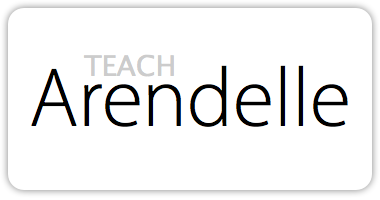
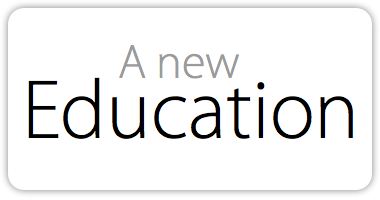
education page added

Changed region(s): [[0.0579, 0.21, 0.9263, 0.72]]

diff --git a/index.html b/index.html
@@ -3,6 +3,12 @@
 
     <head>
     <meta charset="UTF-8">
+
+    <!-- SEO -->
+    <meta name="keywords" content="Arendelle, Arendelle Language, Pouya Kary, Micha Hanselmann" />
+    <meta name="description" content="Homepage of Arendelle Language; A fun new langauge for you to discover the great world of programming!" />
+    <meta http-equiv="content-language" content="en" />
+
     <link href="http://gmpg.org/xfn/11" rel="profile">
   
     <!-- Enable responsiveness on mobile devices-->
@@ -27,26 +33,31 @@
     <script type="text/javascript">
       // Enables responsitive view for some of the floating tags
       function sizeFixer () {
-        // Fixes "It's The Easiest, Most Fun "
+        // Fixes "It's The Easiest, Most Fun"
         if ( document.getElementById("easy").offsetWidth < 720 ) {
           document.getElementById("easyText").style.width = "100%";
           document.getElementById("easyCodeBlock").style.width = "100%";
           document.getElementById("easyText").style.clear = "both";
           document.getElementById("easyCodeBlock").style.clear = "both";
-          document.getElementById("easyImg").style.width = "97%";
+          document.getElementById("easyImg").style.height = "90%";
           document.getElementById("easyDiv").innerHTML = "<br><br><br><br><br><br>";
-
         } else {
           document.getElementById("easyText").style.width = "55%";
           document.getElementById("easyCodeBlock").style.width = "41%";
           document.getElementById("easyText").style.clear = "none";
           document.getElementById("easyCodeBlock").style.clear = "none";
-          document.getElementById("easyImg").style.width = "90%";
-          document.getElementById("easyDiv").innerHTML = "<br><br><br><br><br><br><br><br><br><br><br><br><br><br><br>";
+          document.getElementById("easyImg").style.width = "92%";
+          document.getElementById("easyDiv").innerHTML = "<br><br><br><br><br><br><br><br><br><br><br><br><br><br><br><br><br>";
         }
 
-        if ( document.getElementById("body").offsetWidth < 800 ) {
-          document.getElementById("footerBox").style.width = "100%";
+        // Fixes Footer Buttons
+        if (document.getElementById("body").offsetWidth < 450 ) {
+          document.getElementById("footerBox").style.width = "90%";
+          document.getElementById("footerBox1").style.width = "100%";
+          document.getElementById("footerBox2").style.width = "50%";
+          document.getElementById("footerBox3").style.width = "50%";
+        } else if ( document.getElementById("body").offsetWidth < 800 ) {
+          document.getElementById("footerBox").style.width = "95%";
           document.getElementById("footerBox1").style.width = "50%";
           document.getElementById("footerBox2").style.width = "25%";
           document.getElementById("footerBox3").style.width = "25%";
@@ -82,9 +93,11 @@
 
       <!-- Download / Learn Buttons -->
       <div id="wrap" style="clear:both;">
+        <!-- Download Arendelle -->
         <div id="left_col">
             <a href="http://web.arendelle.org/download/" title="Download Arendelle"><img src="Graphics/downloadArendelle.png" style="width:97%;"></a>
         </div>
+        <!-- Learn Arendelle -->
         <div id="right_col">
             <a href="http://book.arendelle.org" title="Learn Arendelle"><img src="Graphics/learnArendelelButton.png" style="width:97%;"></a>
         </div>
@@ -108,9 +121,9 @@
       <img src="Graphics/easiest.png"><hr>
       <div style="clear:both;" id="easy"> 
         <div style="float:left; margin:2%;" id="easyText">
-          <p>Arendelle is designed to be a very simple language, Each of it’s commands are one character, It’s grammars are simple, short and to the point. In short with less than 4 lines of code you can create something this cool</p><br>
+          <p>Arendelle is designed to be a very simple language, Each of it’s commands are one character, It’s grammars are simple, short and to the point. In short with less than four lines of code you can create things like this</p><br>
 
-          <img src="Graphics/rand.png" width="90%" id="easyImg"><br>
+          <img src="Graphics/rand.png" width="90%" id="easyImg" align><br>
 
           <p>This codes may look strange but as soon as you learn them you'll understand why they are the most simple codes you can ever write!<br><br>
 
@@ -153,13 +166,17 @@
       <img src="Graphics/freeOpen.png"><hr>
       <p>Languages are stuff that you own them when you know them. English is owned by the people who knows it. We believe in Arendelle as a way to share love not to sell a product and that's why we don’t see it, We share it open source so everyone who loves it be able to develop it.<br><br>Arendelle is a community based project and everyone is welcome help us make it even better. If you feel like you can help us Develop, Translate and Share it you can become an Arendelle Engineer and help us make an amazing move even better! To join us please visit our <a href="./developer/index.html">Developer Center</a></p><br><br><br><br><br>
 
+      <!-- You know enough! So it's try time -->
       <img src="Graphics/downloadTitle.png"><hr>
       <p>To understand all of these, All you have to do is to try Arendelle! It's a great language and ensure you that you'll mail us about your happy stories with it!</p><br>
+
       <!-- Download / Learn Buttons -->
       <div id="wrap" style="clear:both;">
+        <!-- Download Arendelle -->
         <div id="left_col">
             <a href="http://web.arendelle.org/download/" title="Download Arendelle"><img src="Graphics/downloadArendelle.png" style="width:97%;"></a>
         </div>
+        <!-- Learn Arendelle -->
         <div id="right_col">
             <a href="http://book.arendelle.org" title="Learn Arendelle"><img src="Graphics/learnArendelelButton.png" style="width:97%;"></a>
         </div>
@@ -168,31 +185,41 @@
     </div>
 
 
+    <!--  Footer Buttons -->
+    <h3 id="disp"></h3>
     <center><div align="center">
       <div style="width:760px;" id="footerBox">
-        <div id="wrap" style="clear:both;">
-          <div style="float:left; width:18rem;" id="footerBox1">
+        <div id="wrap">
+          <!-- Developer -->
+          <div style="float:left; width:50%;" id="footerBox1">
             <a href="http://web.arendelle.org/developer/" title="Arendelle Developer Center"><img src="Graphics/360-developerButton.png" style="width:97%;"></a>
           </div>
-          <div style="float:left; width:9rem;" id="footerBox2">
-            <a href="http://web.arendelle.org/teach/" title="Teach Arendelle"><img src="Graphics/180-teachArendelle.png" style="width:97%;"></a>
+          <!-- Teach Arendelle -->
+          <div style="float:left; width:25%;" id="footerBox2">
+            <a href="http://web.arendelle.org/education/" title="Manifesto: A Whole New Education"><img src="Graphics/180-teachArendelle.png" style="width:97%;"></a>
           </div>
-          <div style="float:left; width:9rem;" id="footerBox3">
+          <!-- Read Our Story -->
+          <div style="float:left; width:25%;" id="footerBox3">
             <a href="http://web.arendelle.org/story/" title="Read Our Story"><img src="Graphics/180-readOursTORY.png" style="width:97%;"></a>
           </div>
-          <div style="clear:both;"></div>
         </div>
       </div>
     </div></center>
 
-    <div class="container content" style="clear:both;"><hr>
+
     <!-- FOOTER -->
+    <div class="container content" style="clear:both;"><hr>
       <a href="legal/copyright.html">Copyright</a> &middot; <a href="legal/privacy.html">Privacy Policy</a> &middot; <a href="legal/index.html">Arendelle Lagal</a><br>
       <small>&copy; Copyright 2015 <a href="http://kary.us">Pouya Kary</a> and <a href="https://github.com/DeerMichel">Micha Hanselmann</a>, All rights reserved.</small>
     </div><br>
     <!-- FOOTER -->
 
-    
     <!-- PAGE'S END -->
+
   </body>
 </html>
+
+<!-- Copyright 2015 Pouya Kary, http://web.arendelle.org/legal/copyright/index.html -->
+
+
+

diff --git a/education/index.html b/education/index.html
@@ -1,0 +1,101 @@
+<!DOCTYPE html>
+<html lang="en">
+
+    <head>
+    <meta charset="UTF-8">
+
+    <!-- SEO -->
+    <meta name="keywords" content="Arendelle, Arendelle Language, Pouya Kary, Micha Hanselmann" />
+    <meta name="description" content="Homepage of Arendelle Language; A fun new langauge for you to discover the great world of programming!" />
+    <meta http-equiv="content-language" content="en" />
+
+    <link href="http://gmpg.org/xfn/11" rel="profile">
+  
+    <!-- Enable responsiveness on mobile devices-->
+    <meta name="viewport" content="width=device-width, initial-scale=1.0, maximum-scale=1">
+  
+    <title>A Whole New Education &middot; Arendelle Project</title>
+  
+    <!-- CSS -->
+    <link rel="stylesheet" href="../public/css/poole.css">
+    <link rel="stylesheet" href="../public/css/syntax.css">
+  
+    <!-- Icons -->
+    <link rel="apple-touch-icon-precomposed" sizes="144x144" href="../public/apple-touch-icon-precomposed.png">
+    <link rel="shortcut icon" href="../public/favicon.ico">
+
+  </head>
+  
+  <body>
+
+    <!-- PAGE'S START -->
+
+    <div><center>
+
+      <img src="header.png" width="978">
+
+    </center></div>
+
+    <div class="container content">
+
+      <br><br><br>
+      <!-- Here Comes A Revolution -->
+      <a href="http://web.arendelle.org"><img src="arendelleLogo.png" style="width:10rem;"></a>
+      <img src="title.png"><hr>
+      <p>When it comes to education, Arendelle is surely the best language. But for educating people you need more than a language, You need an educational system and a new teaching method.</p>
+
+      <p>We took care of all. We created the most easy language with focus on bringing creativity increasing features as well as having an awesome easy environment for it. Moreover we have created our own teaching system as a book published free and online to everyone so it can be used by everyone!</p>
+
+      <p>Now the question is what is the missing part? It is Education System! Old fashion education which is based on forcing you to understand </p>
+
+
+      <!-- What's wrong with the education system" -->
+      <br><br><br><br>
+      <img src="whatsWrongWithEducation.png"><hr>
+      <p>To create a new better educational system, You first have to identify the problems of the previews system. Which is something very simple! The modern educational system that is being used all over the world was founded during the industrial revolution. </p>
+
+      <p>This system was created to make people able to work in factories and companies. To do so, They had to teach people “right” and “wrong”. This right and wrong kills creativity in many different levels. Also the educational system is based on a competition to get the better job. The main reason why everyone hates educational system is that it makes people nervous. It makes people feel stress all the time.</p>
+
+      <p>But how did people learned in the past? Was it always like this? Answer to many of us is clear and it is a big pretty “NO”. People took classes on their own, There were no tests and no stress. Because when you choose something on your own, You love it. And you go for it with no need for hateful pressures.</p>
+
+
+      <!-- Here Comes A Revolution -->
+      <br><br><br><br>
+      <img src="hereComeARevolution.png"><hr>
+      <p>Now the question you should ask is: “How we can fix it?”. Well Education System is wrong in all of it’s subjects. To fix it, You should replace it with a new system. In Arendelle we thought so much about the way people actually learn.</p>
+
+      <p>Learning happens in two places: First is when you use what you learned in real life and the second is when you teach people what you learned. </p>
+
+      <p>Fortunately in Arendelle you have to use whatever you learn, And it’s no problem. However teaching is what our new system comes. As we said before every individual must be a teacher, Also this individual must start from somewhere. We figured a simple way that solves all the problems! </p>
+
+      <br><img src="ourModel.png"><br>
+
+      <p>In Arendelle, When you learn it. You have to share what you learned with three more person. Using this way you “teach” others which makes what you learned stay with you for the rest of your life, By teaching people you give three more people the chance of learning, teaching and enjoying and also you share Arendelle and you help us. So it’s a win, win, win, win, win!</p>
+
+
+      <!-- What To Do Now? -->
+      <br><br><br><br>
+      <img src="whatToDoNow.png"><hr>
+
+      <p>If you want to join this program the process easy! We ask you to promise us to teach three person in return that they do this process again. Then you should read the <a href="http://book.arendelle.org">Arendelle Book</a> and use it’s way to teach people how to program. And after that you can be sure you have learned programming right and you have change so many lives and made them better and happier. </p>
+
+      <p>Thank you so much for reading this and being a part of our movement!</p>
+
+    </div>
+
+    <!-- FOOTER -->
+    <div class="container content" style="clear:both;"><br><br><br><br><br>
+      <a href="legal/copyright.html">Copyright</a> &middot; <a href="legal/privacy.html">Privacy Policy</a> &middot; <a href="legal/index.html">Arendelle Lagal</a><br>
+      <small>&copy; Copyright 2015 <a href="http://kary.us">Pouya Kary</a> and <a href="https://github.com/DeerMichel">Micha Hanselmann</a>, All rights reserved.</small>
+    </div><br>
+    <!-- FOOTER -->
+
+    <!-- PAGE'S END -->
+
+  </body>
+</html>
+
+<!-- Copyright 2015 Pouya Kary, http://web.arendelle.org/legal/copyright/index.html -->
+
+
+

diff --git a/story/index.html b/story/index.html
@@ -1,0 +1,54 @@
+<!DOCTYPE html>
+<html lang="en">
+
+    <head>
+    <meta charset="UTF-8">
+
+    <!-- SEO -->
+    <meta name="keywords" content="Arendelle, Arendelle Language, Pouya Kary, Micha Hanselmann" />
+    <meta name="description" content="Homepage of Arendelle Language; A fun new langauge for you to discover the great world of programming!" />
+    <meta http-equiv="content-language" content="en" />
+
+    <link href="http://gmpg.org/xfn/11" rel="profile">
+  
+    <!-- Enable responsiveness on mobile devices-->
+    <meta name="viewport" content="width=device-width, initial-scale=1.0, maximum-scale=1">
+  
+    <title>Arendelle Language</title>
+  
+    <!-- CSS -->
+    <link rel="stylesheet" href="../public/css/poole.css">
+    <link rel="stylesheet" href="../public/css/syntax.css">
+  
+    <!-- Icons -->
+    <link rel="apple-touch-icon-precomposed" sizes="144x144" href="../public/apple-touch-icon-precomposed.png">
+    <link rel="shortcut icon" href="../public/favicon.ico">
+
+  </head>
+  
+  <body>
+
+    <!-- PAGE'S START -->
+    <div class="container content">
+
+      <br><br><br><br>
+      <img src="title.png"><hr>
+
+    </div>
+
+    <!-- FOOTER -->
+    <div class="container content" style="clear:both;"><hr>
+      <a href="legal/copyright.html">Copyright</a> &middot; <a href="legal/privacy.html">Privacy Policy</a> &middot; <a href="legal/index.html">Arendelle Lagal</a><br>
+      <small>&copy; Copyright 2015 <a href="http://kary.us">Pouya Kary</a> and <a href="https://github.com/DeerMichel">Micha Hanselmann</a>, All rights reserved.</small>
+    </div><br>
+    <!-- FOOTER -->
+
+    <!-- PAGE'S END -->
+
+  </body>
+</html>
+
+<!-- Copyright 2015 Pouya Kary, http://web.arendelle.org/legal/copyright/index.html -->
+
+
+
